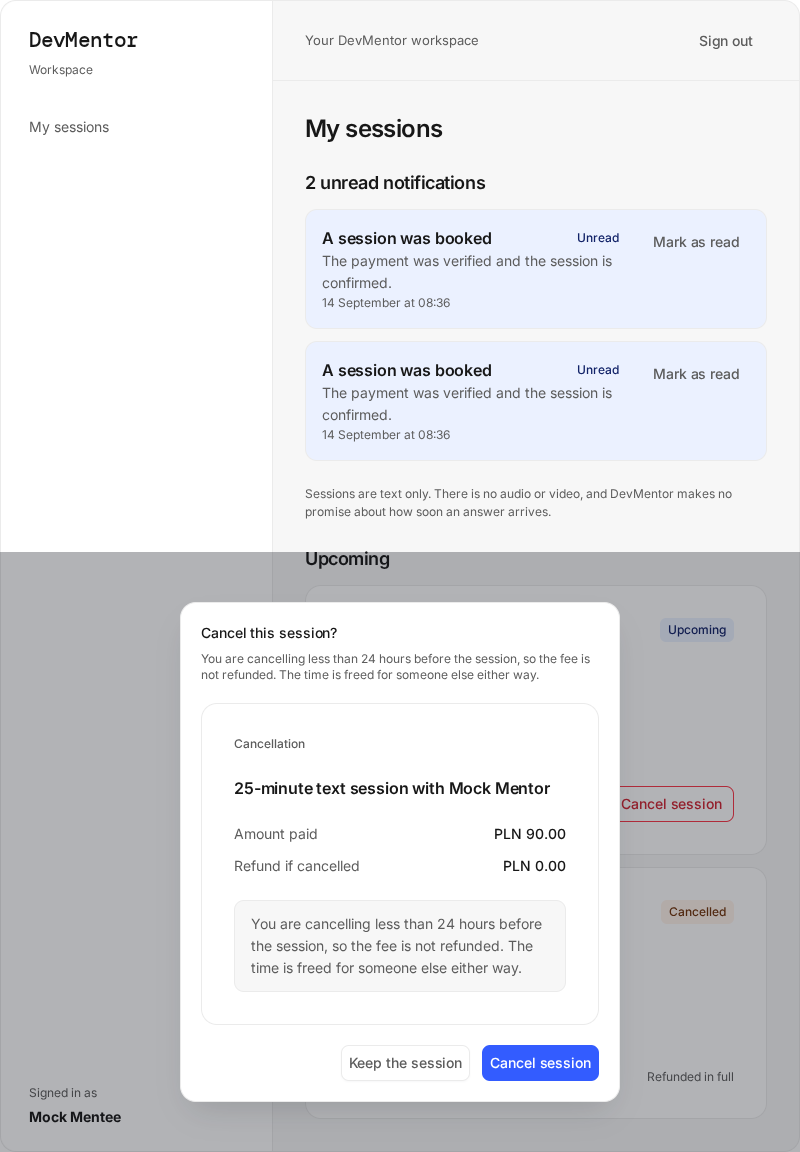
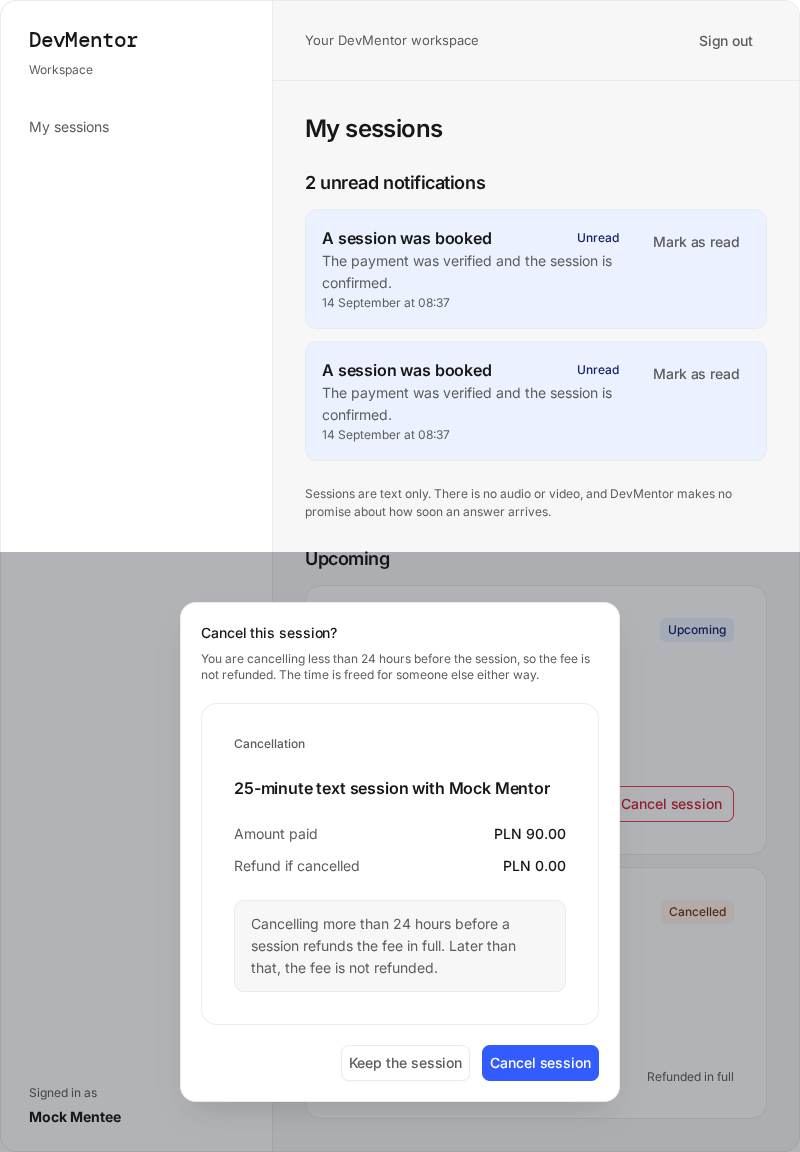
docs(runs): checkpoint 6 — steps 5.1..5.5-review-fix verified

Changed region(s): [[0.3125, 0.7812, 0.6562, 0.8438]]

diff --git a/packages/core/src/services/notifications/notification.service.test.ts b/packages/core/src/services/notifications/notification.service.test.ts
@@ -68,8 +68,11 @@ function makeHarness({
     persist: vi.fn(),
     flush: vi.fn(async () => undefined),
   };
+  // Typed parameter so `mock.calls[n][0]` is a `MailMessage` rather than `undefined`; the
+  // body is read by two assertions below.
   const mailer = {
-    send: vi.fn(async (_message: MailMessage) => {
+    send: vi.fn(async (message: MailMessage) => {
+      void message;
       if (sendFails) throw new Error('provider rejected the message');
     }),
   };

diff --git a/.ai/runs/2026-09-14-epic-03-booking-and-payment/checkpoint-6-checks.md b/.ai/runs/2026-09-14-epic-03-booking-and-payment/checkpoint-6-checks.md
@@ -1,0 +1,52 @@
+# Checkpoint 6 — Phase 5 complete (cancellation, E03-S05 / #24)
+
+**Run at:** 2026-09-14T08:38:00Z
+**Steps covered:** 5.1–5.5, 5.5-review-fix
+**Commits:** `3ebdb22..f5f0795`
+**Touched areas:** `@devmentor/db` (cancellation columns, `booking-cancellation` migration),
+`@devmentor/core` (`cancelByMentee`, the refund settlement branch, the cancelled event and
+its notification), `@devmentor/app` (`POST /api/bookings/[id]/cancel`, the confirmation
+dialog, the refund note on both lists)
+
+## Checks
+
+| Check | Result | Notes |
+|-------|--------|-------|
+| `npm run typecheck` | ✅ pass | Whole monorepo, clean. |
+| `npm run lint` | ✅ pass | 0 errors. One pre-existing `prototypes/` warning remains; the run's own unused-parameter warning was cleared. |
+| `npm run test:unit:coverage` | ✅ pass | 182 files. 100% statements/branches/functions/lines per file. |
+| Migration up / down / up | ✅ pass | `booking-cancellation` against PostgreSQL 17, with entity-schema parity proved afterwards. |
+| Browser scenario — both sides of the window | ✅ pass | Full harness, real Chrome, two real bookings paid for through the webhook. |
+
+## Browser verification
+
+Two sessions booked and paid for in the same run, one 72 hours out and one 6 hours out, then
+cancelled through the UI. Proven against acceptance criteria 21, 22 and 24 of #24:
+
+- **Outside the window** the dialog says the full amount is refunded and shows `PLN 90.00`
+  against `PLN 90.00`; after confirming, the list reads "Refunded in full" and the database
+  row is `cancelled` / `refunded` with the full amount.
+- **Inside the window** the same action says the fee is not refunded and shows a refund of
+  `PLN 0.00` — **before** the mentee confirms (R09) — and the row ends `cancelled` with
+  `refundStatus: 'none'`. `none`, not `failed`: the fee is forfeit by decision (D10), not by
+  a refund going wrong.
+- The time is freed in both cases; only the money differs.
+
+Criterion 23 (the mentor sees a cancelled session with its refund state) is covered by the
+`refundNote` unit tests and the mentor list; its browser proof lands with Step 7.5.
+
+Artifacts in `checkpoint-6-artifacts/`: `checkpoint-6-cancel-refundable.png`,
+`checkpoint-6-cancel-refunded.png`, `checkpoint-6-cancel-forfeited.png`.
+
+## Findings fixed inside this checkpoint
+
+- **`5.5-review-fix`** — the screenshot showed the same sentence twice: once as the dialog's
+  description and again inside `CancellationSummary`'s callout. The summary now carries the
+  *rule* the amounts came from; the description keeps what happens to this booking.
+
+## Known limit carried forward
+
+Unchanged: no Step in this run contacts Stripe. The refunds above went through
+`MockPaymentGateway`, which does record idempotency keys and can be made to fail — so the
+retry and failure paths are real — but the live Stripe refund contract is proved only
+against a stubbed SDK surface. A real end-to-end Stripe pass stays owed to manual QA.

diff --git a/.ai/runs/2026-09-14-epic-03-booking-and-payment/HANDOFF.md b/.ai/runs/2026-09-14-epic-03-booking-and-payment/HANDOFF.md
@@ -1,26 +1,24 @@
 # Handoff — 2026-09-14-epic-03-booking-and-payment
 
-**Last updated:** 2026-09-14T08:24:30Z
+**Last updated:** 2026-09-14T08:38:00Z
 **Branch:** `feat/epic-03-booking-and-payment`
 **PR:** https://github.com/open-mercato/ai_techleaders_project/pull/53 (draft)
-**Current phase/step:** Phase 5 Step 5.1
-**Last commit:** `2a8f1a0` — fix(ui): draw an unpaid hold as waiting, not ended
+**Current phase/step:** Phase 6 Step 6.1
+**Last commit:** `f5f0795` — fix(bookings): say the cancellation consequence once, not twice
 
 ## What just happened
-- Phase 4 (E03-S04 / #23) is complete and verified at checkpoint 5. The whole journey was
-  driven in a real browser: a mentee books and pays, returns to a banner that does not claim
-  confirmation, the webhook confirms, the session appears as upcoming with an unread
-  notification, and the mentor sees it from the other side.
-- Phases 1–3 shipped and were verified at checkpoints 1–4.
-- Everything up to and including "both parties know" now works. What is left is cancelling
-  (Phase 5), the fee split and payouts (Phase 6), and the permanent integration suite plus
-  the records (Phase 7).
+- Phase 5 (E03-S05 / #24) is complete and verified at checkpoint 6. Both sides of the
+  24-hour rule were proved in a real browser against two real paid bookings, with the
+  outcome stated before the mentee confirmed in each case.
+- Phases 1–4 shipped and were verified at checkpoints 1–5.
+- Five of the epic's six stories are done. What is left is the fee split and payouts
+  (Phase 6, #25), then the permanent integration suite and the records (Phase 7).
 
 ## Next concrete action
-- Step 5.1 — add the cancellation columns to `Booking` (`cancelledAt`, `refundStatus`
-  = `none` | `pending` | `refunded` | `failed`, `stripeRefundId`, `refundedAmountCents`),
-  generate the migration with `DB_MIGRATIONS_SNAPSHOT=false` on `db:migrate`, and extend the
-  entity and migration tests.
+- Step 6.1 — add `PLATFORM_FEE_PERCENT` to the zod env schema (default 20, integer 0–100),
+  expose it as `PlatformSettingsService.get().feePercent`, and add a `splitFor(priceCents)`
+  helper returning `{ platformFeeCents, mentorShareCents }` that always sums back to the
+  price.
 
 ## Blockers / open questions
 - None blocking.

diff --git a/.ai/runs/2026-09-14-epic-03-booking-and-payment/PLAN.md b/.ai/runs/2026-09-14-epic-03-booking-and-payment/PLAN.md
@@ -46,12 +46,12 @@
 | 4 | 4.8 | Surface unread notifications on each role home | inline | done | 999a37a |
 | 4 | 4.8-review-fix | Read the notification time out | inline | done | 62b0e38 |
 | 4 | 4.6-review-fix | Draw an unpaid hold as waiting, not ended | inline | done | 2a8f1a0 |
-| 5 | 5.1 | Add the cancellation columns | inline | done | pending |
-| 5 | 5.2 | Cancel a booking and refund inside the window | inline | done | pending |
-| 5 | 5.3 | Settle a refund from the webhook | inline | done | pending |
-| 5 | 5.4 | Serve the booking cancellation route | inline | done | pending |
-| 5 | 5.5 | Confirm a cancellation and its refund outcome | inline | done | pending |
-| 5 | 5.5-review-fix | Say the consequence once, not twice | inline | done | pending |
+| 5 | 5.1 | Add the cancellation columns | inline | done | 3ebdb22 |
+| 5 | 5.2 | Cancel a booking and refund inside the window | inline | done | 452406f |
+| 5 | 5.3 | Settle a refund from the webhook | inline | done | 4d1fef2 |
+| 5 | 5.4 | Serve the booking cancellation route | inline | done | d576da1 |
+| 5 | 5.5 | Confirm a cancellation and its refund outcome | inline | done | 0e5f966 |
+| 5 | 5.5-review-fix | Say the consequence once, not twice | inline | done | f5f0795 |
 | 6 | 6.1 | Make the platform fee configurable | inline | todo | — |
 | 6 | 6.2 | Add the fee snapshot, payout and Connect columns | inline | todo | — |
 | 6 | 6.3 | Snapshot the fee split at confirmation | inline | todo | — |

diff --git a/.ai/runs/2026-09-14-epic-03-booking-and-payment/NOTIFY.md b/.ai/runs/2026-09-14-epic-03-booking-and-payment/NOTIFY.md
@@ -143,3 +143,14 @@
   two pages share `SessionsList`, which had to exist for either to work, and splitting after
   the fact would have meant rewriting already-pushed history. The consequence is one bisect
   point covering two Steps; nothing else. Recorded rather than papered over.
+
+## 2026-09-14T08:38:00Z — checkpoint 6
+- Steps 5.1 through 5.5-review-fix (`3ebdb22..f5f0795`): Phase 5, cancellation (#24),
+  complete.
+- Typecheck, lint and the 100% per-file coverage gate pass; the `booking-cancellation`
+  migration was proved up/down/up with entity-schema parity.
+- Both sides of the 24-hour rule were proved in a real browser against two real paid
+  bookings: full refund outside the window, forfeited fee inside it, and the outcome stated
+  before the mentee confirmed (R09) in both cases.
+- One finding fixed inside the checkpoint (`5.5-review-fix`): the consequence sentence
+  appeared twice on the confirmation dialog.
